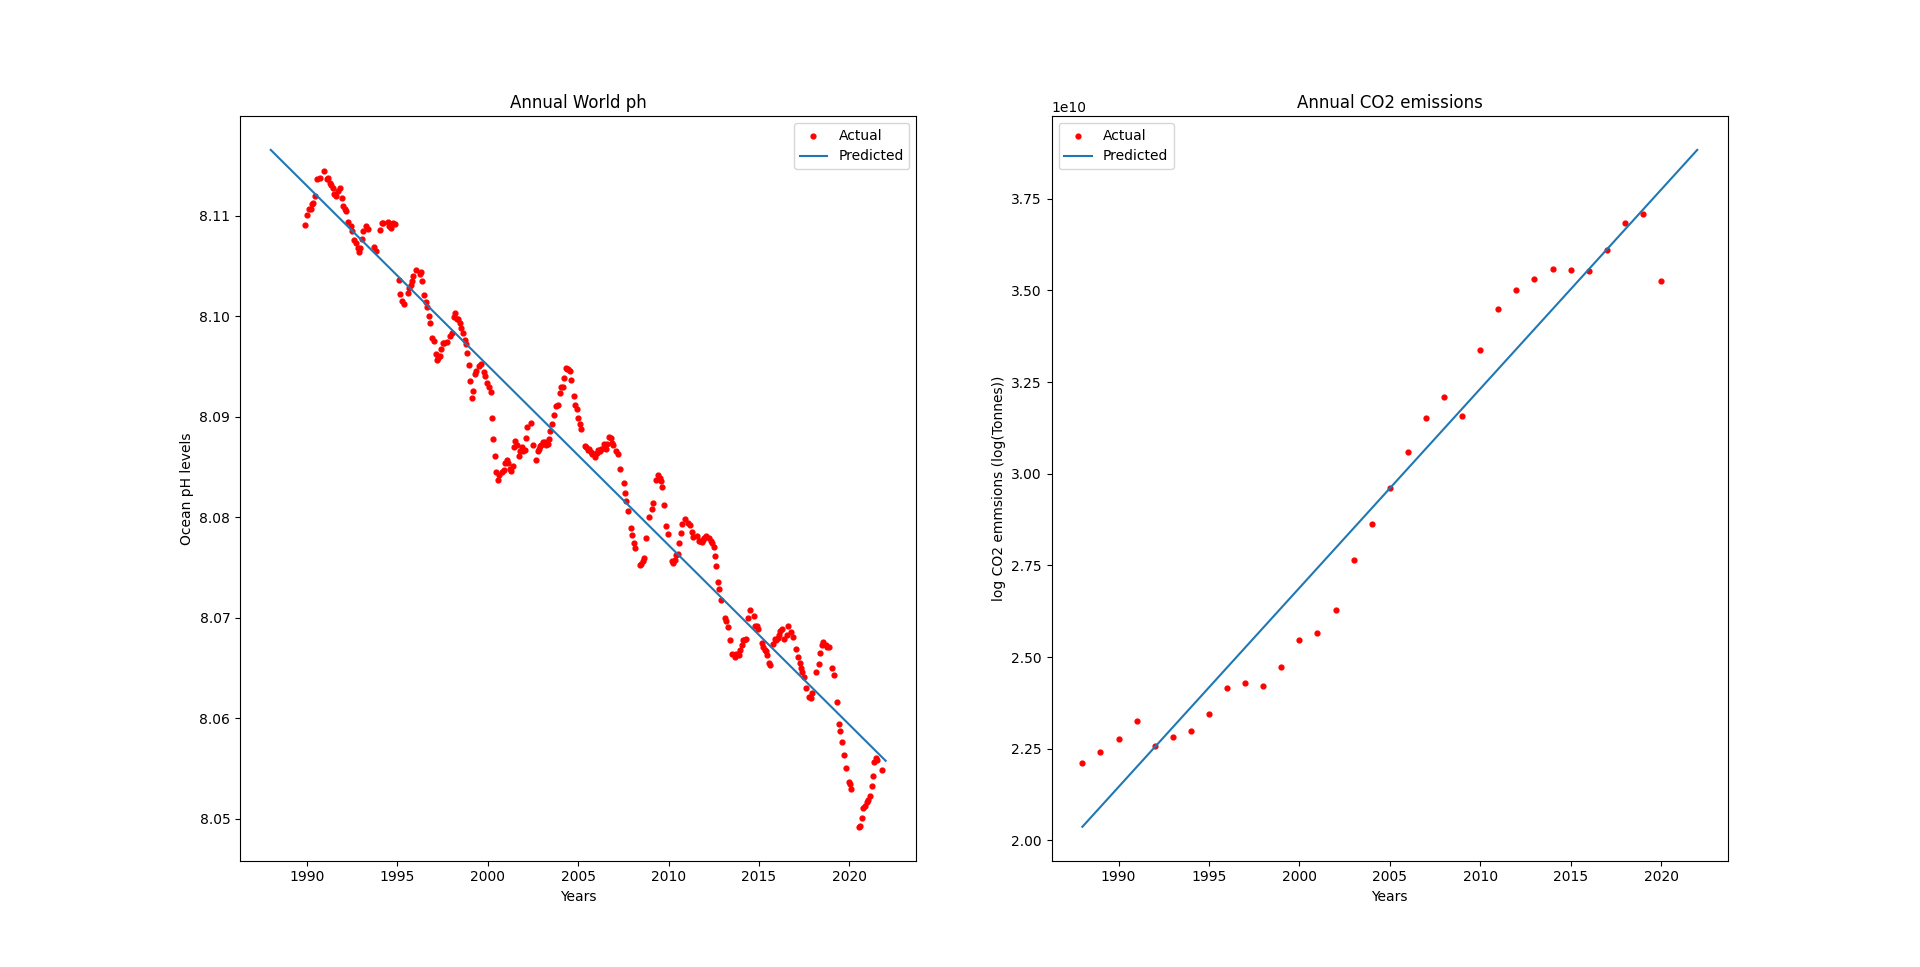
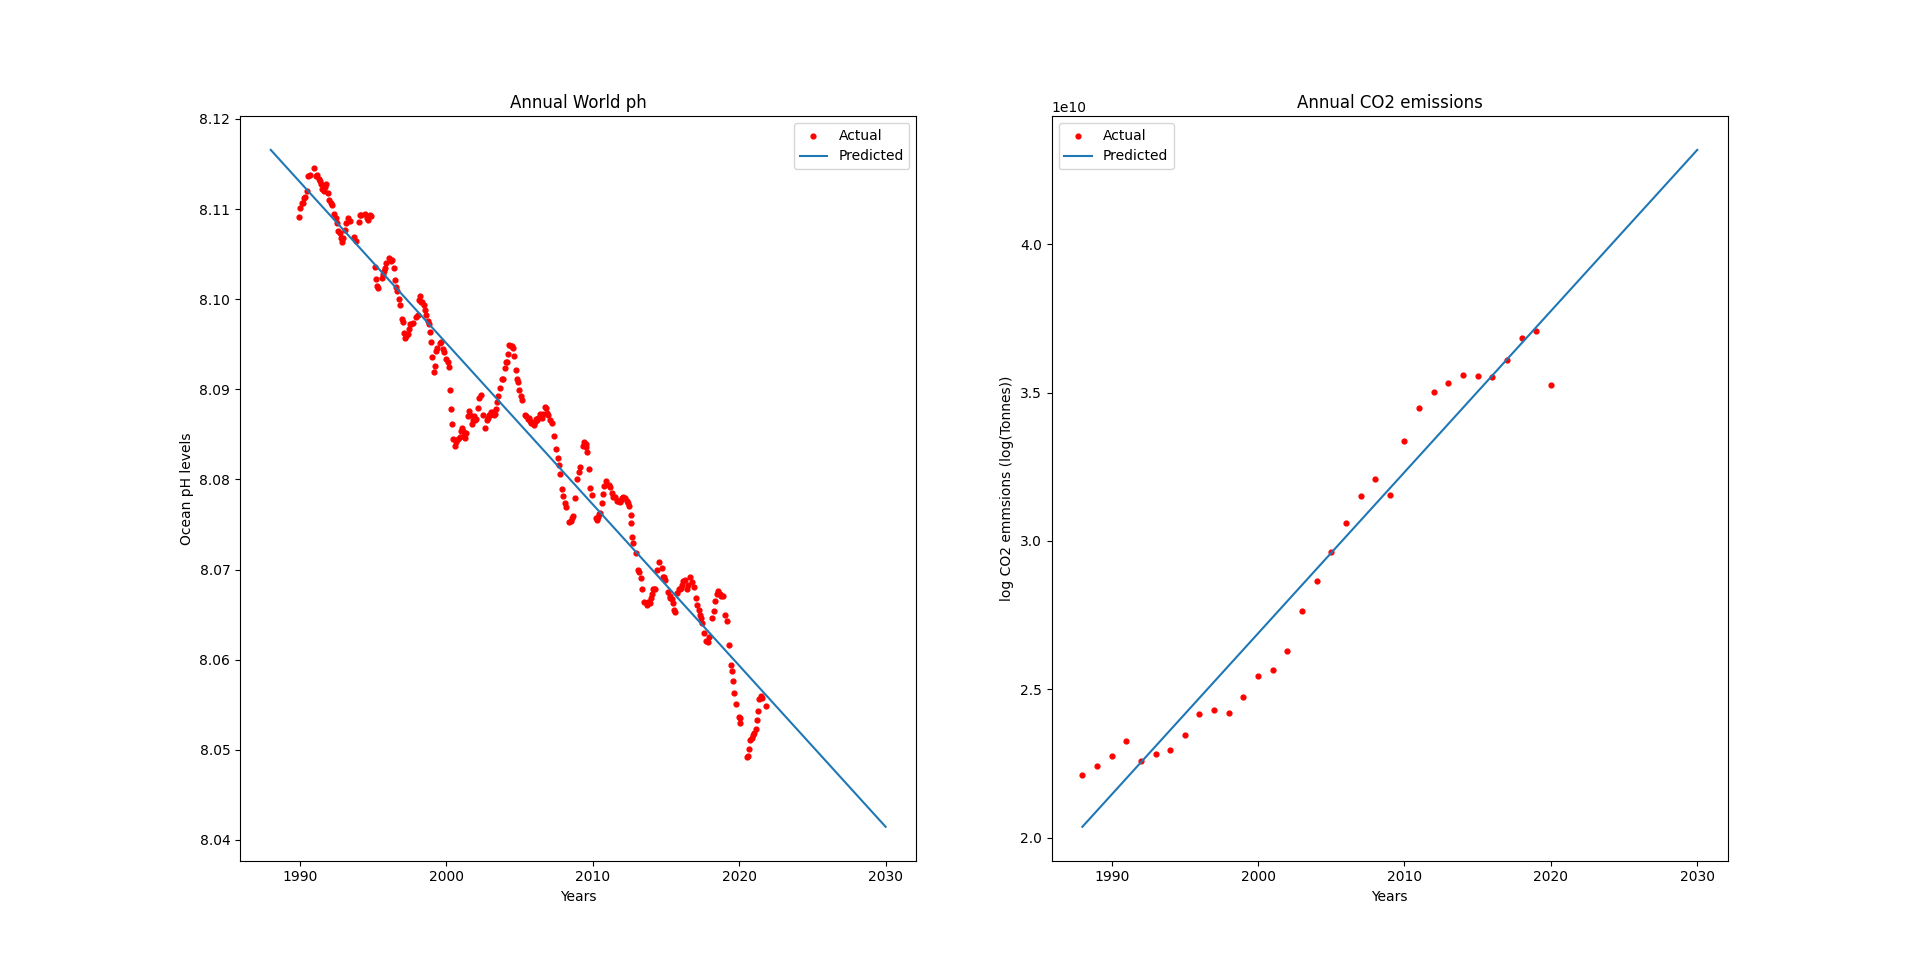
stuff

diff --git a/data/test.py b/data/test.py
@@ -57,18 +57,22 @@ def r_squared(xx,yy,m,c):
         r2 = 1 - (ss_res/ss_tot)
     return(r2)
 
-# run the following bash script on the file climate-change_2.csv to get scraped data that we need for ph
-# grep -E 'World' climate-change_2.csv | cut -f1,2,10,11 -d',' | sed -E '/,$/d' > ph.csv
 
+# url = 'https://raw.githubusercontent.com/janzika/MATH3041/main/data/climate-change_2.csv'
 data_ph = pd.read_csv("data\ph.csv")
+# display(data)
 
+# run the following bash script to get scraped data that we need for ph
+# grep -E 'World' climate-change_2.csv | cut -f1,2,10,11 -d',' | sed -E '/,$/d' > ph.csv
 
 # The row values where the entity is World
 row_values_ph = np.where(data_ph['Entity']=='World')[0]
 
 # total palm oil production for the world 
+world_ph_monthly=data_ph['Monthly pH measurement'][row_values_ph[0]:row_values_ph[-1]]
 world_ph_annual=data_ph['Annual average'][row_values_ph[0]:row_values_ph[-1]]
 years_ph=data_ph['Date'][row_values_ph[0]:row_values_ph[-1]] # associated dates
+years_ph.replace(to_replace = '1988-10-31', value = '1988')
 for index, value in enumerate(years_ph):
     years_ph[index] = toYearFraction(dt.strptime(value, '%Y-%m-%d').date())
 
@@ -76,8 +80,7 @@ url = 'https://raw.githubusercontent.com/janzika/MATH3041/main/data/annual-co-em
 data_emissions = pd.read_csv(url)
 
 # The row values where the entity is World
-row_values_emissions = np.where((data_emissions['Entity']=='World'))[0]
-
+row_values_emissions = np.where((data_emissions['Entity']=='World') & (data_emissions['Year']>=1988))[0]
 
 # annual CO2 emmsions (billion tonnes) for each country from 1750 to 2021
 world_emissions=data_emissions['Annual CO₂ emissions (zero filled)'][row_values_emissions[0]:row_values_emissions[-1]]
@@ -86,26 +89,35 @@ years_emissions=data_emissions['Year'][row_values_emissions[0]:row_values_emissi
 # Plot both graphs separatley
 # plot palm oil produciton data
 plt.figure("Separate Graphs")
-plt.subplot(1,2,1)
+plt.subplot(1,3,1)
+# plt.plot(years_ph,world_ph_monthly) 
 plt.plot(years_ph,world_ph_annual,color='g',label='Ocean pH')
+# plt.legend(['Monthly average','Annual average'])
 plt.xlabel('Year')
 plt.ylabel('Ocean pH levels')
 plt.title('Annual pH measurement')
 
 # plot palm oil produciton data log
-plt.subplot(1,2,2)
+plt.subplot(1,3,2)
 plt.semilogy(years_emissions,world_emissions,color='b',label='C02 emissions') 
+# define axis labels and title
 plt.xlabel('Year')
 plt.ylabel('log CO2 emmsions (log(Tonnes))')
+plt.grid()
 plt.title('Annual CO2 emissions')
+
+plt.subplot(1,3,3)
+plt.plot(years_emissions,world_emissions,color='y',label='C02 emissions') 
+# define axis labels and title
+plt.xlabel('Year')
+plt.ylabel('CO2 emmsions (billion tonnes)')
+plt.title('Annual CO2 emissions')
+
+plt.show()
 
 #########################################################################################
 
-xval = np.linspace(1988,2030,1000) # define  values from 1988 to 2030
-row_values_emissions_comparison = np.where((data_emissions['Entity']=='World') & (data_emissions['Year']>=1988))[0] # shorten years as pH mesurement only starts in 1988
-world_emissions_comparison=data_emissions['Annual CO₂ emissions (zero filled)'][row_values_emissions_comparison[0]:row_values_emissions_comparison[-1]]
-years_emissions_comparison=data_emissions['Year'][row_values_emissions_comparison[0]:row_values_emissions_comparison[-1]] # associated years
-
+xval = np.linspace(1988,2030,1000) # define  values from 1960 to 2030
 
 # Determine constants for Annual ph
 m_world_ph,b_world_ph = linear_fit(years_ph,world_ph_annual)
@@ -123,11 +135,11 @@ plt.xlabel('Years')
 plt.ylabel('Ocean pH levels')
 
 # Determine constants for CO2 production
-m_world_emissions,b_world_emissions = linear_fit(years_emissions_comparison,world_emissions_comparison)
+m_world_emissions,b_world_emissions = linear_fit(years_emissions,world_emissions)
 yval_world_emissions = m_world_emissions*xval + b_world_emissions # find y values 
 
 plt.subplot(1,2,2)
-plt.scatter(years_emissions_comparison,world_emissions_comparison,color='r',s=12)
+plt.scatter(years_emissions,world_emissions,color='r',s=12)
 plt.plot(xval,yval_world_emissions)
 plt.title('Annual CO2 emissions')
 plt.legend(['Actual','Predicted'])
@@ -139,7 +151,7 @@ plt.ylabel('log CO2 emmsions (log(Tonnes))')
 print('Annual ph world')
 print(r_squared(years_ph,world_ph_annual,m_world_ph,b_world_ph))
 print('CO2 world')
-print(r_squared(years_emissions_comparison,world_emissions_comparison,m_world_emissions,b_world_emissions))
+print(r_squared(years_emissions,world_emissions,m_world_emissions,b_world_emissions))
 # Annual ph world
 # 0.950557992515578
 # CO2 world
@@ -147,16 +159,23 @@ print(r_squared(years_emissions_comparison,world_emissions_comparison,m_world_em
 
 fig, ax = plt.subplots()
 
-lns1 = ax.plot(years_ph,world_ph_annual,color='g',label='Ocean pH')
+# lns1 = ax.plot(years_ph,world_ph_monthly,color='o',label='Monthly world pH') 
+lns2 = ax.plot(years_ph,world_ph_annual,color='g',label='Ocean pH')
 ax.set_ylabel('Ocean pH levels')
 ax.set_xlabel('Year')
 
+# twin object for two different y-axis on the sample plot
 ax2=ax.twinx()
 # make a plot with different y-axis using second axis object
-lns2=plt.plot(years_emissions_comparison,world_emissions_comparison,color='b',label='C02 emissions') 
-ax2.set_ylabel('CO2 emmsions (Tonnes)')
+lns3=plt.semilogy(years_emissions,world_emissions,color='b',label='C02 emissions') 
+
+# ax2.set_ylim([0,2.5e7])
+ax2.set_ylabel('log CO2 emmsions (log(Tonnes))')
 
 # added these three lines
-fig.legend(['Annual world pH','World CO2 concentration'],loc='upper left')
+# lns = lns1+lns3+lns2
+# labs = [l.get_label() for l in lns]
+# ax.legend(lns, labs, loc=0)
+fig.legend(['Monthly world pH','Annual world pH','World CO2 concentration'],loc='upper left')
 
-plt.show()
+# plt.show()
